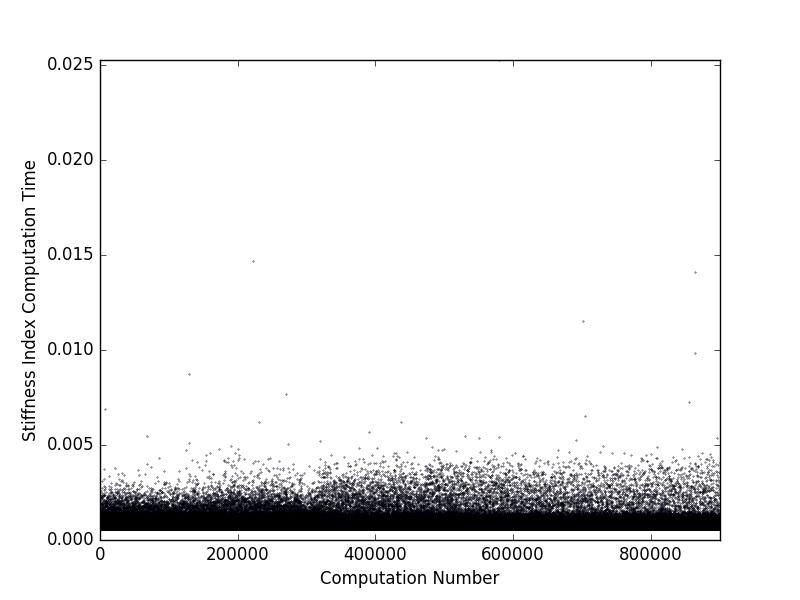
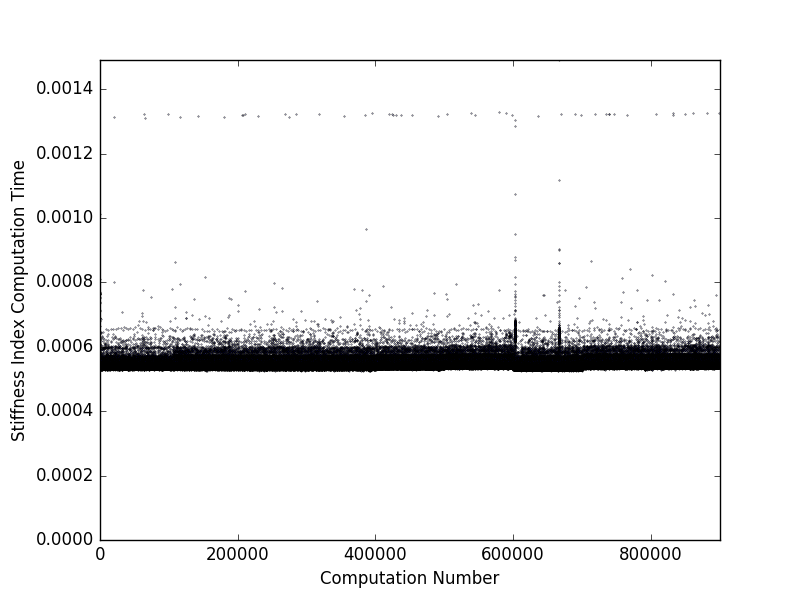
Reran all of the plots using VODE/BDF, and updated the python file for timing.  Odd results.  Got a NaN with a timestep of 1e-7 after particle 403.

Changed region(s): [[0.0, 0.24, 0.9062, 0.75], [0.0312, 0.75, 0.9062, 0.93], [0.0312, 0.09, 0.125, 0.15]]

diff --git a/Stiffness_CO_H2_rogers_6_20_17_timing.py b/Stiffness_CO_H2_rogers_6_20_17_timing.py
@@ -6,16 +6,20 @@ Created on Fri Feb 17 14:54:13 2017
 @author: andrewalferman
 """
 
+import matplotlib
+matplotlib.use('Agg')
 import os as os
 import numpy as np
-from coh2 import pyjacob as pyjacob
+import pyjacob as pyjacob
 import pylab as pyl
 # import scipy as sci
 import datetime
 import time as timer
 
-from scipy.integrate import odeint
+# from scipy.integrate import odeint
 from scipy.integrate import ode
+
+pyl.ioff()
 
 
 def firstderiv(state, time, press):
@@ -157,7 +161,7 @@ wj = 1.
 normweights = wi, wj
 
 # Define the range of the computation
-dt = 1.e-7
+dt = 1.e-10
 tstart = 0
 tstop = 5 * dt
 tlist = np.arange(tstart, tstop + 0.5 * dt, dt)
@@ -222,15 +226,16 @@ for particle in range(numparticles):
 
         # Call the integrator and time it
         solution = []
-        onestep = Ys[:]
+        curstate = Ys[:]
         currentt = tstart
 
         # Specify the integrator
-        solver = ode(firstderiv,
-                     jac=jacobval).set_integrator('zvode',
-                                                  method='bdf')
+        solver = ode(firstderiv  # ,
+                     # jac=jacobval
+                     ).set_integrator('zvode',
+                                      method='bdf')
         for i in range(5):
-            intrange = np.arange(currentt, currentt + dt, dt)
+            # intrange = np.arange(currentt, currentt + dt, dt)
             time0 = timer.time()
             """
             # This integrator may not be the greatest, but it was easy to learn
@@ -252,18 +257,20 @@ for particle in range(numparticles):
             """
 
             # Set the initial condition
-            solver.set_initial_value(onestep, 0.0)
+            solver.set_initial_value(curstate,
+                                     0.0
+                                     ).set_f_params(curstate, 0.0, Y_press)
 
             # Integrate the ODE one step
             k = 0
             while solver.successful() and k < 1:
-                solver.integrate(solver.t + dt)
-                onestep = solver.y
+                solver.integrate(dt)
+                curstate = solver.y.real
                 k += 1
 
             time1 = timer.time()
-            onestep = onestep[0]
-            solution.append(onestep)
+            solution.append(curstate)
+
             # Should only time it for one timestep
             if i == 2:
                 solutiontimes.append(time1 - time0)
@@ -289,7 +296,7 @@ for particle in range(numparticles):
         # pasrstiffnesses[tstep,particle,:] = np.hstack((solution[2],
         #                                               indexvalues[2]))
         # This variable includes the values of the derivatives
-        #pasrstiffnesses2[tstep, particle, :] = np.hstack(
+        # pasrstiffnesses2[tstep, particle, :] = np.hstack(
         #    (derivatives, indexvalues[2]))
 
 speciesnames = ['H', 'H$_2$', 'O', 'OH', 'H$_2$O', 'O$_2$', 'HO$_2$',
@@ -362,9 +369,10 @@ solavg = 1000. * (solavg / datanum)
 stiffavg = 1000. * (stiffavg / datanum)
 print("Average integration time (ms): {:.7f}".format(solavg))
 print("Average SI computation time (ms): {:.7f}".format(stiffavg))
-print("Maximum integration time (ms): {:.7f}".format(max(solutiontimes) * 1000.))
+print("Maximum integration time (ms): {:.7f}".format(
+    max(solutiontimes) * 1000.))
 print("Maximum SI computation time (ms): {:.7f}".format(max(stiffcomptimes)
-                                                   * 1000.))
+                                                        * 1000.))
 
 # Plot of integration times vs. computation number
 pyl.figure(0)
@@ -400,8 +408,8 @@ if savefigures == 1:
 pyl.figure(3)
 pyl.ylabel('Stiffness Index ')
 pyl.xlabel('Stiffness Index Computation Time')
-pyl.xlim(0.,max(solutiontimes))
-pyl.ylim(0.,max(stiffcomptimes))
+pyl.xlim(0., max(solutiontimes))
+pyl.ylim(0., max(stiffcomptimes))
 pyl.scatter(stiffcomptimes, stiffvals, 0.1)
 if savefigures == 1:
     pyl.savefig('Stiffcomp_Stiffvals.' + figformat)
@@ -410,11 +418,11 @@ if savefigures == 1:
 pyl.figure(4)
 pyl.ylabel('Stiffness Index ')
 pyl.xlabel('Integration Time')
-pyl.xlim(0.,max(solutiontimes))
-pyl.ylim(0.,max(stiffvals))
+pyl.xlim(0., max(solutiontimes))
+pyl.ylim(0., max(stiffvals))
 pyl.scatter(solutiontimes, stiffvals, 0.1)
 if savefigures == 1:
-    pyl.savefig('Int_Stiffvals.' + figformat)
+    pyl.savefig('Int_Stiffvals1.' + figformat)
 
 
 """
@@ -436,4 +444,5 @@ label = cb.set_label('log$_{10}$ (Stiffness Index)')
 if savefigures == 1:
     pyl.savefig('PaSR_Range_Stiffness_Index.' + figformat)
 """
-pyl.show()
+pyl.close('all')
+# pyl.show()
